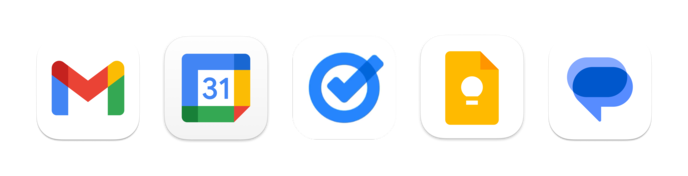
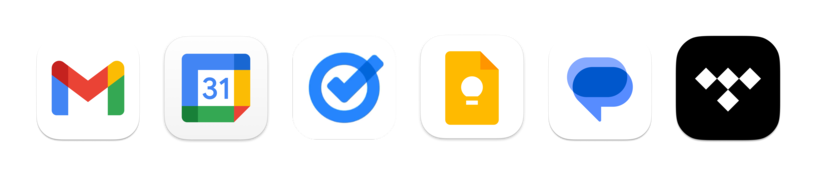
feat: add Tidal, and move to a Widevine-capable Electron
Tidal has no official Linux client, so a wrapper is worth building. It is
also the first app here that stock Electron cannot run at all.

Its audio is Widevine-protected and stock Electron ships no CDM. Measured
before changing anything, in a stock build pointed at listen.tidal.com:

  com.widevine.alpha        NotSupportedError: Unsupported keySystem
  org.w3.clearkey           SUPPORTED   (built in, and no use to Tidal)
  com.microsoft.playready   NotSupportedError

That is not a degraded experience, it is no playback. So package.json now
pins castlabs' Electron for Content Security, a drop-in fork at the SAME
Electron version (v42.8.0+wvcus vs upstream 42.8.0) so every existing app
runs on an identical Chromium. In the built Tidal app the CDM installs in
~1.2s and createMediaKeys() succeeds -- checked with createMediaKeys rather
than requestMediaKeySystemAccess alone, because the latter only proves a
feature-detect and not a usable CDM.

Three things the fork drags in, each of which fails quietly rather than
loudly, so all three are commented where they live:

  - `npm install electron` by name resolves STOCK Electron from the registry
    and silently replaces the fork; apps still build and simply never play.
    Both build scripts now run a bare `npm install`.
  - @electron/packager downloads the dist itself and defaults to
    electron/electron, which has no +wvcus tag -- the build 404s. Both
    scripts export ELECTRON_MIRROR.
[…]

diff --git a/main.js b/main.js
@@ -841,6 +841,38 @@ function spoofSession(sess) {
   sess.setPermissionCheckHandler((wc, permission) => GRANTED.has(permission));
 }
 
+// Widevine. Stock Electron ships no CDM, so a DRM service (Tidal's audio, for one) simply
+// cannot play in it — measured: requestMediaKeySystemAccess('com.widevine.alpha') throws
+// NotSupportedError. This repo therefore builds on castlabs' Electron for Content Security,
+// a drop-in fork pinned to the same Electron version, which installs the CDM on first run.
+//
+// The install has to finish BEFORE any window exists: a renderer created without a CDM
+// keeps that handicap for its whole life, so an early window would silently never play.
+//
+// But it is a network operation, and blocking window creation on the network is how you end
+// up with an app that shows nothing at all on a machine that woke up without Wi-Fi. So it
+// is bounded: wait, and if it has not finished in time, open the windows anyway. A DRM app
+// then fails to play until the next launch, which is a far better outcome than no window.
+const WIDEVINE_READY_TIMEOUT_MS = 15000;
+
+async function whenWidevineReady() {
+  let components;
+  try { components = require('electron').components; } catch (e) { return; }
+  // Stock Electron has no `components` at all; nothing to wait for.
+  if (!components || typeof components.whenReady !== 'function') return;
+  const started = Date.now();
+  try {
+    await Promise.race([
+      components.whenReady(),
+      wait(WIDEVINE_READY_TIMEOUT_MS).then(() => { throw new Error('timed out'); }),
+    ]);
+    logRecovery('widevine ready in ' + (Date.now() - started) + 'ms');
+  } catch (e) {
+    logRecovery('widevine not ready after ' + (Date.now() - started) + 'ms (' +
+      (e && e.message) + ') — opening windows anyway; DRM playback will not work this run');
+  }
+}
+
 // acctNum -> BrowserWindow
 const windows = new Map();
 
@@ -913,8 +945,23 @@ function hasSuffix(host, suffixes) {
 const GOOGLE_HOST_SUFFIXES = [
   'google.com', 'gstatic.com', 'googleusercontent.com', 'googleapis.com',
 ];
-function isGoogleHost(host) {
-  return hasSuffix(host, GOOGLE_HOST_SUFFIXES);
+
+// The app's OWN registrable domain, derived from its URL: listen.tidal.com -> tidal.com.
+// Naive last-two-labels, which is wrong for public suffixes like .co.uk (it would yield
+// "co.uk" and match far too much) -- so it is only ever used to keep an app's own pages
+// in-app, never to grant trust. A too-broad match there costs a page opening in the app
+// instead of the browser, not a security boundary.
+const APP_DOMAIN = (() => {
+  const parts = APP_HOST.split('.').filter(Boolean);
+  return parts.length >= 2 ? parts.slice(-2).join('.') : APP_HOST;
+})();
+
+// Kept in-app rather than pushed out to the browser. Google's hosts are here because four
+// of the bundled apps are Google's and their UI spans several of them; the app's own domain
+// is here because every app needs its own pages, and a Tidal wrapper that opened
+// tidal.com links in Firefox would be useless -- sign-in alone would never complete.
+function isFirstPartyHost(host) {
+  return hasSuffix(host, GOOGLE_HOST_SUFFIXES) || (!!APP_DOMAIN && hasSuffix(host, [APP_DOMAIN]));
 }
 
 // Enterprise SSO / identity-provider domains. Corporate Google Workspace sign-in commonly
@@ -1068,7 +1115,7 @@ function attachExternalLinkRouting(wc) {
         openInChrome(u.searchParams.get('q') || u.searchParams.get('url') || url, slot);
         return { action: 'deny' };
       }
-      if (isGoogleHost(u.hostname) || isAuthHost(u.hostname)) {
+      if (isFirstPartyHost(u.hostname) || isAuthHost(u.hostname)) {
         const part = wc.session && wc.session.__partition;
         const webPreferences = part
           ? Object.assign({ partition: part }, STEALTH_WEBPREFS)
@@ -1386,7 +1433,8 @@ if (!gotSingleInstanceLock) {
     win.focus();
   });
 
-  app.whenReady().then(() => {
+  app.whenReady().then(async () => {
+    await whenWidevineReady();
     // Populates the Help → About dialog. macOS fills this from the bundle's Info.plist,
     // but on Linux the About panel is empty unless it's set explicitly.
     app.setAboutPanelOptions(Object.assign({

diff --git a/README.md b/README.md
@@ -1,6 +1,6 @@
 <div align="center">
 
-<img src="docs/apps.png" alt="Gmail, Google Calendar, Google Tasks, Google Keep, Google Messages" width="600">
+<img src="docs/apps.png" alt="Gmail, Google Calendar, Google Tasks, Google Keep, Google Messages, Tidal" width="700">
 
 # Electron Apps
 
@@ -13,7 +13,8 @@ Ships with a set of apps ready to go; **[adding your own is one line](#add--chan
 
 <p>
 <img alt="Platform: macOS and Linux" src="https://img.shields.io/badge/platform-macOS%20%7C%20Linux-informational">
-<img alt="Electron 42" src="https://img.shields.io/badge/Electron-42-47848F?logo=electron&logoColor=white">
+<img alt="Electron 42 (castlabs ECS)" src="https://img.shields.io/badge/Electron-42%20ECS-47848F?logo=electron&logoColor=white">
+<img alt="Widevine DRM supported" src="https://img.shields.io/badge/Widevine-supported-informational">
 <img alt="No dependencies beyond Node" src="https://img.shields.io/badge/runtime%20deps-none-success">
 <img alt="License MIT" src="https://img.shields.io/badge/license-MIT-green">
 </p>
@@ -29,6 +30,10 @@ Ships with a set of apps ready to go; **[adding your own is one line](#add--chan
 These ship configured out of the box. They are a starting set, not the point — anything
 with a URL can be an app here.
 
+Tidal is the one that earns the Electron fork: it has no official Linux client, and its
+audio is **Widevine-protected**, which stock Electron cannot play at all. See
+[DRM / protected content](#drm--protected-content).
+
 |  | App | Opens | Install name |
 |:--:|---|---|---|
 | <img src="docs/icons/gmail.png" width="40"> | **Gmail** | `mail.google.com` | `gmail` |
@@ -36,6 +41,7 @@ with a URL can be an app here.
 | <img src="docs/icons/google-tasks.png" width="40"> | **Google Tasks** | `tasks.google.com` | `google-tasks` |
 | <img src="docs/icons/google-keep.png" width="40"> | **Google Keep** | `keep.google.com` | `google-keep` |
 | <img src="docs/icons/google-messages.png" width="40"> | **Google Messages** | `messages.google.com` | `google-messages` |
+| <img src="docs/icons/tidal.png" width="40"> | **Tidal** | `listen.tidal.com` | `tidal` |
 
 Install all of them, **[just the ones you want](#choosing-which-apps-to-install)**, or none
 of them — **[add your own](#add--change-a-service)** and build only that.
@@ -343,6 +349,37 @@ resists being embedded, something it will actually sign you into.
 | `icons/` | 1024px `.icns` app icons (macOS). |
 | `icons/png/` | PNGs extracted from those `.icns` files, used by the Linux build. Regenerated automatically if missing. |
 | `docs/` | Images used by this README (the icon strip and the per-app icons), generated from `icons/png/`. |
+
+### DRM / protected content
+
+Some services will not play in a stock Electron at all. Tidal is the example here: its audio
+is Widevine-protected, and stock Electron ships no Content Decryption Module, so playback is
+impossible rather than merely degraded. Measured in stock Electron:
+
+```
+com.widevine.alpha        NotSupportedError: Unsupported keySystem
+org.w3.clearkey           SUPPORTED          (built in, and no use to Tidal)
+com.microsoft.playready   NotSupportedError
+```
+
+So `package.json` pins Electron to
+[castlabs' Electron for Content Security](https://github.com/castlabs/electron-releases) — a
+drop-in fork at the **same Electron version** (`v42.8.0+wvcus` against upstream `42.8.0`), so
+every other app runs on an identical Chromium. It installs the Widevine CDM on first launch,
+after which `com.widevine.alpha` is supported and `createMediaKeys()` succeeds.
+
+Two consequences worth knowing:
+
+- **Windows wait for the CDM.** A renderer created before it is ready never gets one, so it
+  would silently fail to play for its whole life. The wait is bounded (15s) — a machine that
+  wakes with no network opens its windows anyway rather than showing nothing, and logs
+  `[recovery] widevine not ready`.
+- **The build downloads Electron from the fork.** `ELECTRON_MIRROR` is set for you; the
+  official releases have no `+wvcus` tag and the download 404s without it. For the same
+  reason the build runs a bare `npm install` — naming `electron` explicitly would pull stock
+  Electron from the registry and quietly break DRM playback.
+
+Nothing else changes. If you build only the Google apps you will never notice any of this.
 
 ### Getting past Google's login block
 Spoofing the User-Agent alone (what plain Nativefier does) is **not** enough — Google also

diff --git a/CLAUDE.md b/CLAUDE.md
@@ -35,6 +35,7 @@ desktop app, is what most of `main.js` and `preload.js` are for.
 | `icons/*.icns`, `icons/png/` | App artwork. The Linux build extracts PNG from `.icns` automatically. |
 | `docs/` | README images, generated from `icons/png/`. |
 | `styles/<slug>.css` | Optional per-app CSS, injected on that app's own host. `styles/gmail.css` is the shipped example. |
+| `icons/png/<icon>.png` | App artwork. Tidal's came from its own web app manifest, which is where to look for any site's icon. |
 
 ---
 
@@ -217,6 +218,37 @@ Nothing in Electron retries a failed navigation. `main.js` adds a backoff retry 
 
 `ERR_ABORTED` (-3) is an ordinary superseded navigation, not a failure — retrying on it
 fights the page.
+
+### DRM (why Electron is a fork here)
+
+`package.json` pins Electron to [castlabs ECS](https://github.com/castlabs/electron-releases)
+(`v42.8.0+wvcus`), not stock Electron. Stock ships no Widevine CDM, so a DRM service cannot
+play in it — measured, `requestMediaKeySystemAccess('com.widevine.alpha')` throws
+`NotSupportedError`. It is a drop-in fork at the same Electron version, so the non-DRM apps
+run on an identical Chromium.
+
+Three ways this bites if you are not expecting it:
+
+- **Never run `npm install electron`.** Naming the package explicitly resolves stock Electron
+  from the registry and silently replaces the fork; apps still build and simply never play
+  DRM. The build scripts run a bare `npm install` deliberately.
+- **`ELECTRON_MIRROR` must point at the fork.** `@electron/packager` downloads the Electron
+  dist itself and defaults to `electron/electron`, where the `+wvcus` tag does not exist —
+  the build 404s. Both build scripts export it.
+- **Windows must wait for `components.whenReady()`.** A renderer created before the CDM is
+  installed never gets one and fails to play for its whole life. `whenWidevineReady()` does
+  this, bounded at 15s so a machine with no network still opens its windows.
+
+Verify with `createMediaKeys()`, not just `requestMediaKeySystemAccess` — the former proves a
+usable CDM rather than a feature-detect:
+
+```js
+const a = await navigator.requestMediaKeySystemAccess('com.widevine.alpha', [{
+  initDataTypes: ['cenc'],
+  audioCapabilities: [{ contentType: 'audio/mp4; codecs="mp4a.40.2"' }]
+}]);
+await a.createMediaKeys();
+```
 
 ### Per-app CSS
 
